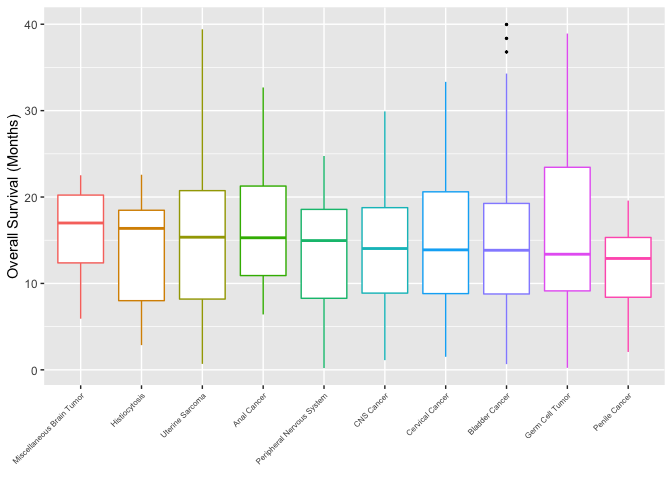
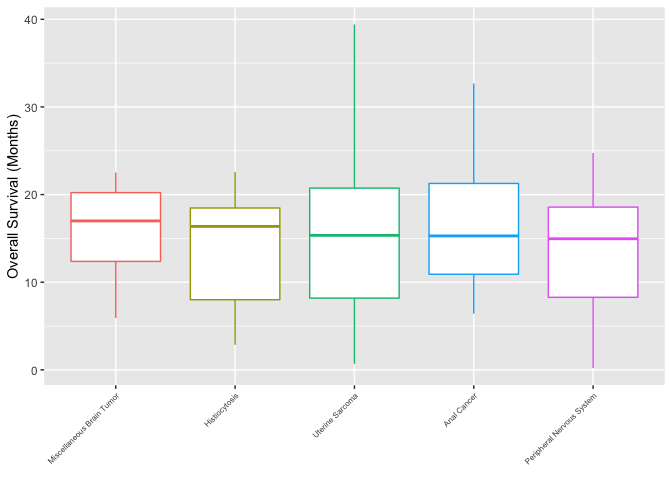
package release

diff --git a/assignment-1.md b/assignment-1.md
@@ -24,6 +24,9 @@ ascending or descending order.
     #' @param numerical The variable to be plotted on the y-axis. It should 
     #' not require any scaling prior to plotting.
     #'
+    #' @param plot A numerical scalar. Number of levels of the categorical to be
+    #' plotted.
+    #'
     #' @param min_sample_size A numerical scalar. Minimum group size to include
     #' for plotting. Low sample size may produce highly skewed boxplots.
     #'
@@ -36,39 +39,39 @@ ascending or descending order.
     #' @return Output will be a plot provided a dataset and the corresponding
     #' categorical and numerical vaiables are specified. Otherwise, will return a
     #' error.
-    boxplot_10 <- function(df, categorical, numerical, min_sample_size = 10, na.rm = TRUE, .desc = FALSE) {
+    boxplot_10 <- function(df, categorical, numerical, plot = 10, min_sample_size = 10, na.rm = TRUE, .desc = FALSE) {
       #check that a dataframe hsa been inputted
       if (is.vector(df)) {
         stop("df must be a dataframe. You inputted an object of the type: ", class(df))
       }
         
       # calculate medians and filter by minimum sample size
-      top_10 <- df %>%
+      top <- df %>%
         group_by({{ categorical }}) %>%
         summarize(median = median({{ numerical }}, na.rm = na.rm), count = n()) %>%
         filter(count > min_sample_size)
 
       # order categorical in ascending or descending order
       if (.desc == T) {
-        top_10 <- top_10 %>%
+        top <- top %>%
           arrange(desc(median)) %>%
-          head(10) %>%
+          head({{plot}}) %>%
           pull({{ categorical }})
       } else {
-        top_10 <- top_10 %>%
+        top <- top %>%
           arrange(median) %>%
-          head(10) %>%
+          head({{plot}}) %>%
           pull({{ categorical }})
       }
 
       # filter for variables to be plotted and set levels
-      df_10 <- df %>%
-        filter({{ categorical }} %in% top_10 & !is.na({{ numerical }})) %>%
+      df_top <- df %>%
+        filter({{ categorical }} %in% top & !is.na({{ numerical }})) %>%
         mutate(categorical = fct_reorder({{ categorical }}, {{ numerical }}, na.rm = na.rm, .desc = .desc))
       # ggplot automatically removes NA but will return a warning
       
       # ggplot visualization
-      ggplot(df_10, aes(
+      ggplot(df_top, aes(
         x = categorical,
         y = {{ numerical }},
         color = categorical
@@ -120,7 +123,7 @@ survival for different cancer types. We choose a minimum sample size of
     ## #   Number of Samples Per Patient <dbl>, Sample coverage <dbl>,
     ## #   Sample Type <chr>, Sex <chr>, Smoking History <chr>, …
 
-    boxplot_10(msk, `Cancer Type`, `Overall Survival (Months)`, min_sample_size = 5, na.rm = T, .desc = T)
+    boxplot_10(msk, `Cancer Type`, `Overall Survival (Months)`, plot = 5, min_sample_size = 5, na.rm = T, .desc = T)
 
 ![](assignment-1_files/figure-markdown_strict/e1-1.png) **Example 2.** A
 dataset on vancouver trees from the datateachr package is used to create
@@ -132,9 +135,12 @@ sample size of 100.
 
 ![](assignment-1_files/figure-markdown_strict/e2-1.png)
 
-**Example 3.** We use another dataset from datateachr, this time for
-steam games, to visualize the discount price for games of different
-genres.
+&lt;&lt;&lt;&lt;&lt;&lt;&lt; HEAD **Example 3.** We use another dataset
+from datateachr, this time for steam games, to visualize the discount
+price for games of different genres. ======= **Example 3.** We use
+another dataset from datateachr, this time for steam games, to visualize
+the discount price for games of different genres.
+&gt;&gt;&gt;&gt;&gt;&gt;&gt; ee60eaf3b8ed44c645ae21f92a940d52cdd8232c
 
     boxplot_10(steam_games, genre, discount_price, min_sample_size =  20, .desc = T)
 
@@ -150,7 +156,7 @@ function
       expect_identical(class(p$layers[[1]]$geom)[1], "GeomBoxplot")
     })
 
-    ## Test passed 🌈
+    ## Test passed 😀
 
     # create a test inputting arguments that cannot be plotted
     test_that("Function requires correct argument input types", {
@@ -162,4 +168,4 @@ function
       expect_error(boxplot_10(list(c(1,2,3), c("A","B","C"))))
     })
 
-    ## Test passed 🥳
+    ## Test passed 🌈
